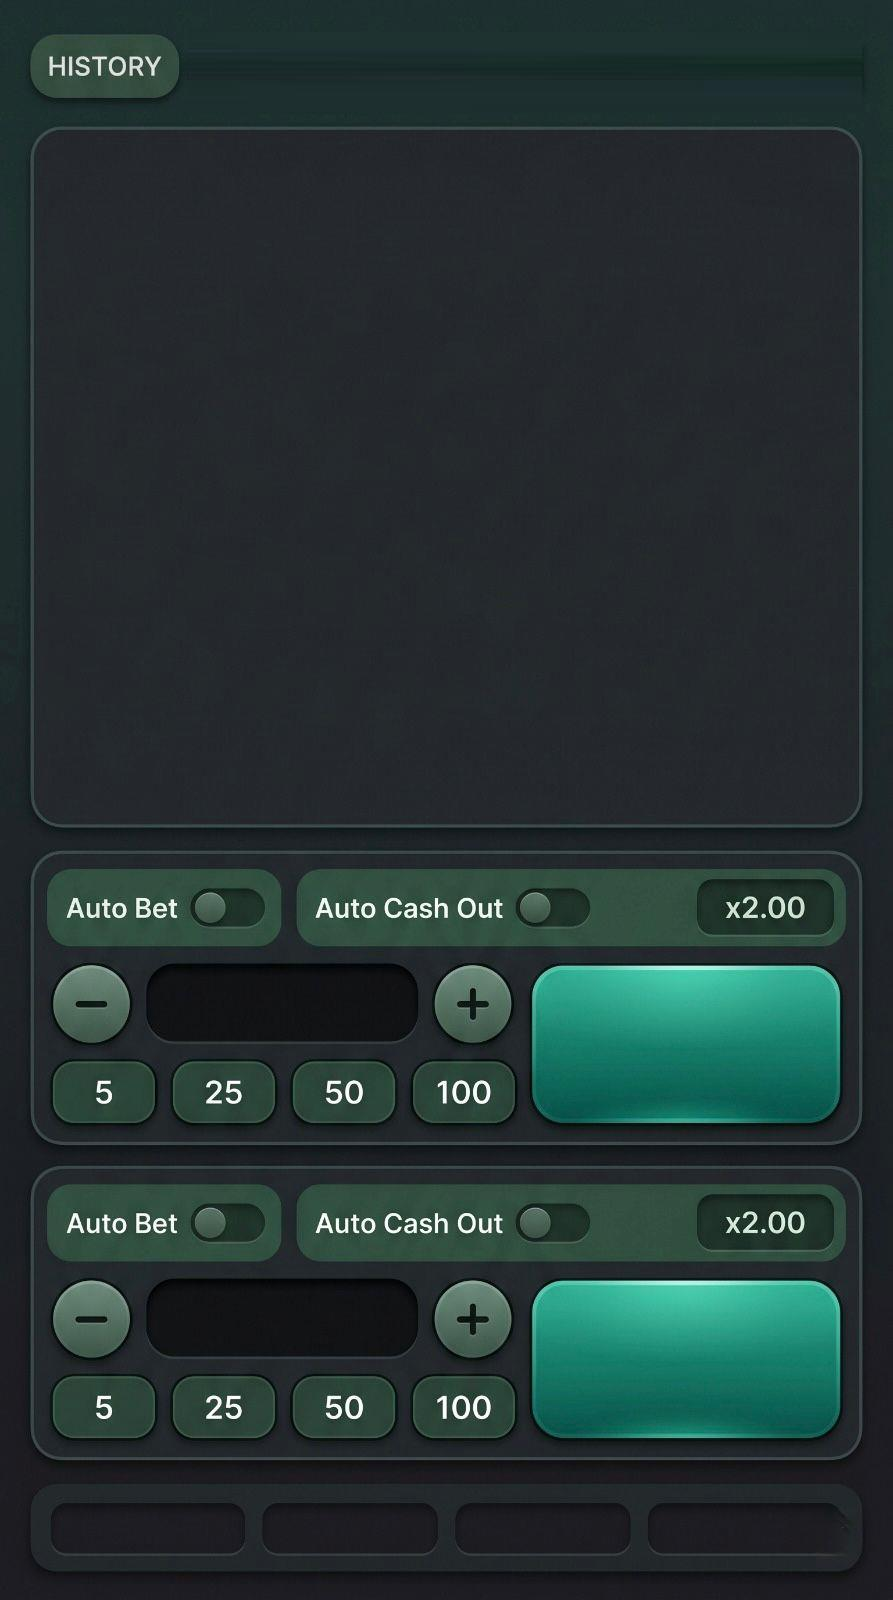
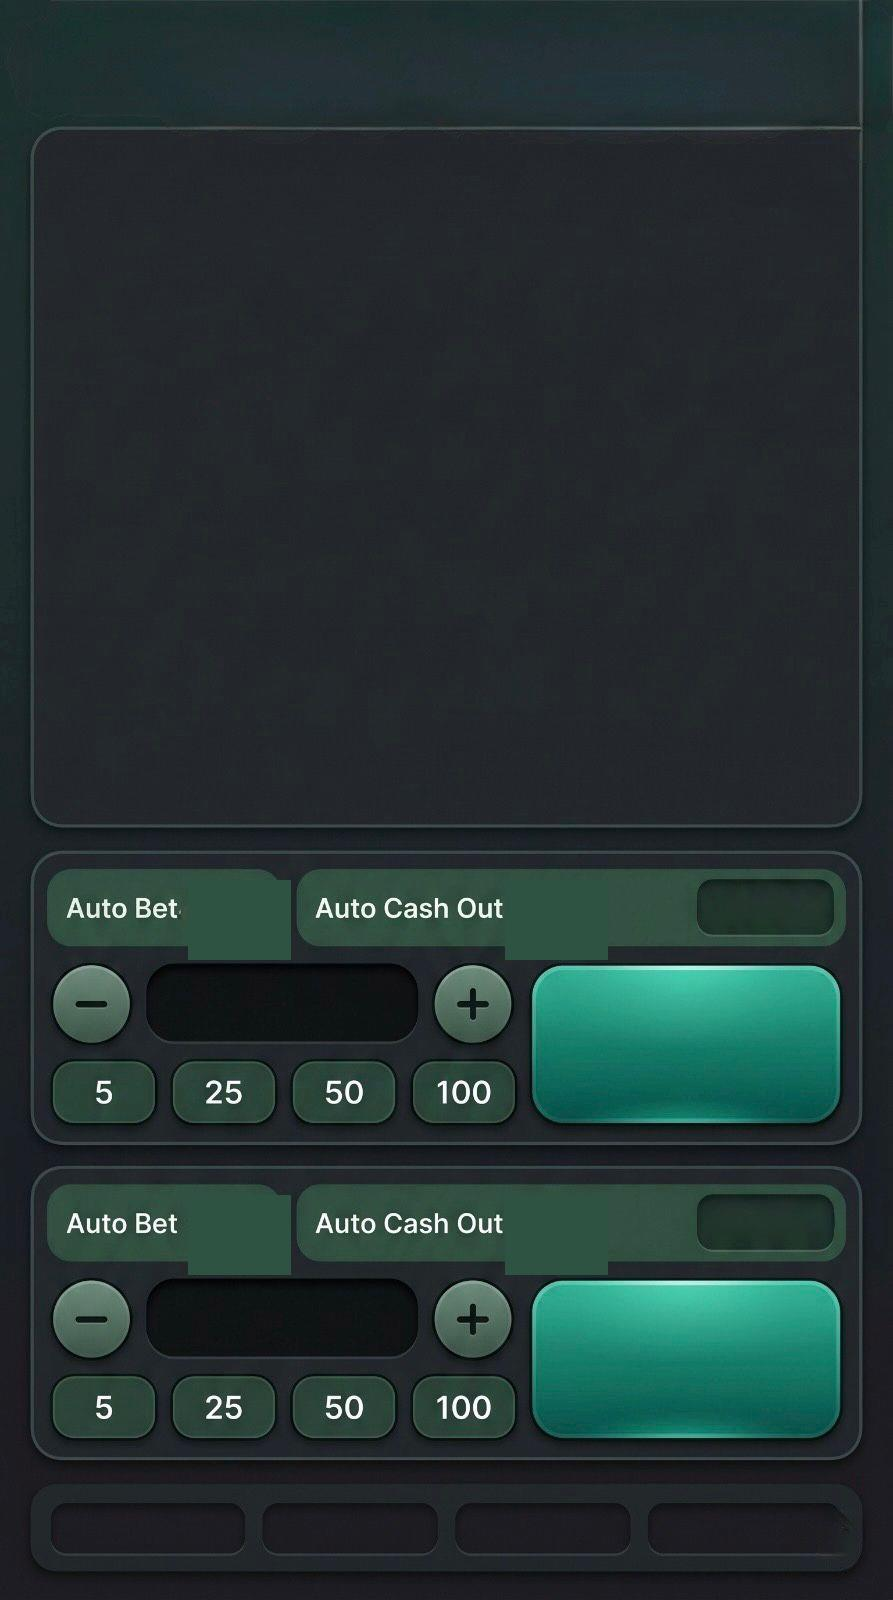
Granny: erase 4 baked toggles from asset, align overlay toggles, cache-bust v5

diff --git a/lava-platform/frontend/public/granny.html b/lava-platform/frontend/public/granny.html
@@ -53,7 +53,7 @@
       width:100%;
       aspect-ratio:893/1600;
       position:relative;
-      background:url('/assets/granny/new%20gran%20panel.jpeg?v=3') center/100% 100% no-repeat;
+      background:url('/assets/granny/new%20gran%20panel.jpeg?v=5') center/100% 100% no-repeat;
       flex-shrink:0;
     }
     .app-bg-video{
@@ -291,17 +291,15 @@
     /* Row 1 — Auto Bet / Auto Cash Out toggles + x2.00 multiplier */
     .bps-toggle{ position:absolute;background:transparent;border:none;padding:0;cursor:pointer;
       -webkit-tap-highlight-color:transparent;touch-action:manipulation;z-index:6; }
-    .np-autobet { left:0%;  top:4%; width:25%; height:23%; }
-    .np-autocash{ left:28%; top:4%; width:44%; height:23%; }
-    .np-sw{ position:absolute;top:28%;height:42%;border-radius:99px;background:#1e2f25;
-      border:1px solid rgba(255,255,255,.10);transition:background .2s; }
-    .np-autobet  .np-sw{ left:68%; width:28%; }
-    .np-autocash .np-sw{ left:66%; width:16%; }
-    .np-sw .knob{ position:absolute;top:11%;left:7%;height:78%;aspect-ratio:1/1;border-radius:50%;
-      background:#6e8a79;box-shadow:0 1px 2px rgba(0,0,0,.45);transition:left .2s,right .2s,background .2s; }
+    .np-autobet { left:18%;   top:8%; width:12%; height:15%; }
+    .np-autocash{ left:57.5%; top:8%; width:12%; height:15%; }
+    .np-sw{ position:absolute;inset:0;border-radius:99px;background:#26382e;
+      border:1px solid rgba(255,255,255,.12);transition:background .2s; }
+    .np-sw .knob{ position:absolute;top:9%;left:6%;height:82%;aspect-ratio:1/1;border-radius:50%;
+      background:#9fb8aa;box-shadow:0 1px 2px rgba(0,0,0,.4);transition:left .2s,right .2s,background .2s; }
     .bps-toggle.on .np-sw{ background:#1f7a52; }
-    .bps-toggle.on .np-sw .knob{ left:auto;right:7%;background:#3ad98e; }
-    .bps-toggle:active{ transform:scale(.97); }
+    .bps-toggle.on .np-sw .knob{ left:auto;right:6%;background:#46e89a; }
+    .bps-toggle:active{ transform:scale(.95); }
 
     /* x2.00 auto-cashout multiplier field */
     .np-mult{ position:absolute;left:80.5%;top:4%;width:19.5%;height:23%;